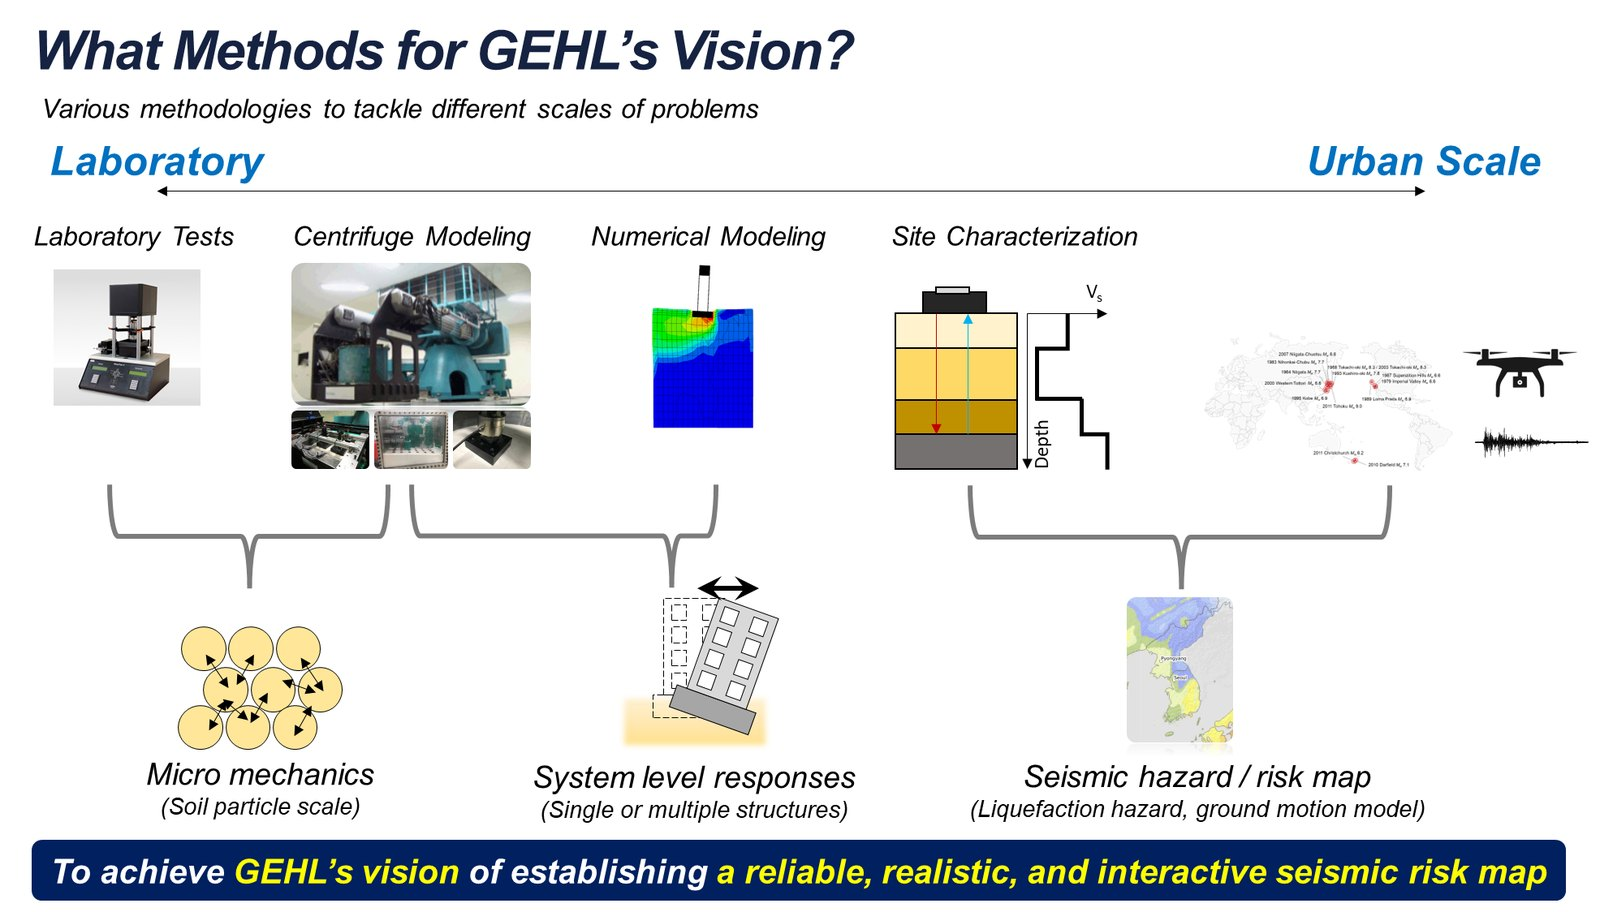
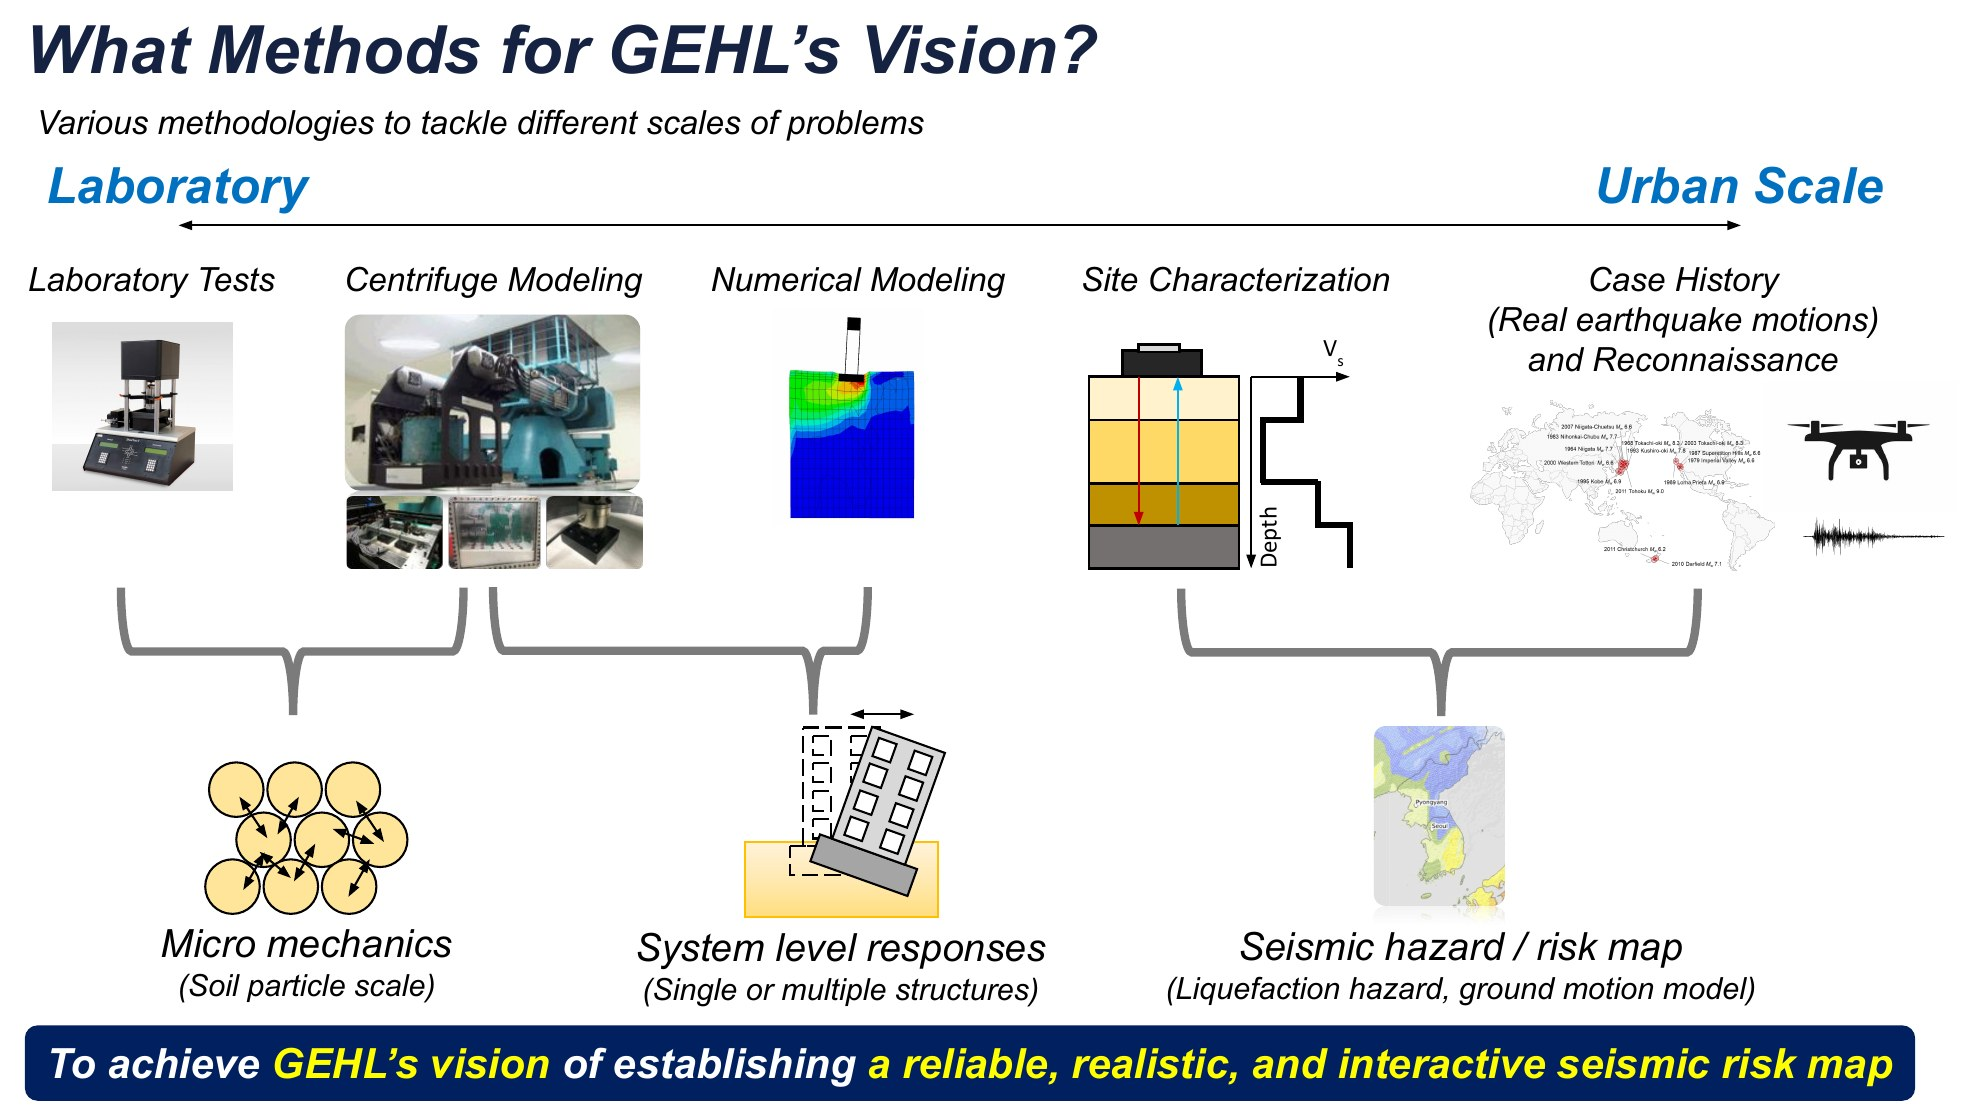
Site update 2026-10-26 14:33 (8 files, from DESKTOP-U5TBK7D)

diff --git a/index.html b/index.html
@@ -331,7 +331,16 @@ p.intro + p.intro{margin-top:12px}
 .rcard .chips span{font-size:13px;padding:5px 11px;border-radius:999px;background:var(--soft);color:var(--fg)}
 .rcard figure{margin:20px 0 0;border:1px solid var(--line);border-radius:10px;overflow:hidden;background:var(--bg)}
 .rcard figure img{display:block;width:100%;max-height:420px;object-fit:contain;background:#fff}
-.rcard figure.fig-teach img{max-height:none}   /* the teaching diagram fills its frame */
+.rcard figure.fig-teach img,.rcard figure.fig-full img{max-height:none}   /* diagrams fill their frame */
+.areas{display:grid;grid-template-columns:repeat(2,minmax(0,1fr));gap:24px}
+.rcard.area{padding:26px 28px}
+.rcard.area h3{font-size:22px;line-height:1.25;min-height:2.5em}   /* room for two title lines, so the pictures line up across a row */
+.rcard.area figure{margin-top:16px}
+.rcard.area figure .ph{display:block;position:relative;aspect-ratio:16/9;overflow:hidden;background:#fff}   /* every card's picture box is the same size */
+.rcard.area figure .ph img{position:absolute;inset:0;width:100%;height:100%;max-height:none;object-fit:contain;z-index:1}
+.rcard.area figure .ph img.bg{object-fit:cover;filter:blur(18px) brightness(.95) saturate(1.05);transform:scale(1.2);z-index:0}
+.rcard.area .prose p{font-size:15px}
+@media (max-width:860px){ .areas{grid-template-columns:1fr} }
 .rcard figcaption{font-size:12.5px;color:var(--muted);padding:8px 12px;border-top:1px solid var(--line)}
 .rcard .sel{list-style:none;margin:0;padding:0;display:grid;gap:7px}
 .rcard .sel li{font-size:14px;color:var(--muted);padding-left:14px;position:relative}
@@ -453,6 +462,12 @@ footer li{margin:4px 0}
 .arow .b button.del{color:var(--accent);border-color:var(--accent)}
 .arow .b button.mv{padding:4px 6px;min-width:26px}
 .arow .b button[disabled]{opacity:.35;cursor:default}
+.pubfilter{margin-top:-6px}
+.pubpick{max-height:230px;overflow:auto;border:1px solid var(--line-strong);border-radius:var(--radius);padding:6px 10px;display:grid;gap:4px;background:var(--surface)}
+.pubpick .pp{display:flex;gap:8px;align-items:flex-start;font-size:13px;color:var(--fg);cursor:pointer}
+.pubpick .pp input{width:auto;flex:0 0 auto;margin:3px 0 0}
+.pubpick .pp span{flex:1}
+.pubpick .pp i{color:var(--muted)}
 .thumbs{display:flex;gap:8px;flex-wrap:wrap}
 .thumbs .th{position:relative}
 .thumbs.sortable .th{cursor:grab}
@@ -574,36 +589,35 @@ footer li{margin:4px 0}
    "title": "A reliable, realistic, and interactive seismic risk map",
    "paragraphs": [
     "GEHL's vision is a seismic risk map that is reliable, realistic, and interactive: one that engineers, planners, and the public can trust and use. Every project in the lab is a step toward it, and every project follows one chain: characterize the input motion, identify the soil-foundation-structure system, and predict its output. The same framework is being extended from earthquakes to other natural hazards.",
-    "Reaching that map takes methods at every scale, from the laboratory to the city. Laboratory and centrifuge tests expose the micro-mechanics of soil at the particle scale; centrifuge and numerical modeling capture the response of single and multiple structures as one system; and site characterization, from shear-wave velocity profiles to earthquake case histories and drone-based surveys, builds the liquefaction hazard and ground-motion models behind the map. Experimental, numerical, and analytical results are checked against recorded earthquakes from databases such as DesignSafe, KiK-net, and CESMD, and probabilistic methods carry the uncertainty through to the final risk estimate."
+    "Reaching that map takes methods at every scale, from the laboratory to the city. Laboratory and centrifuge tests expose the micro-mechanics of soil at the particle scale; centrifuge and numerical modeling capture the response of single and multiple structures as one system; and site characterization, from shear-wave velocity profiles to earthquake case histories, builds the liquefaction hazard and ground-motion models behind the map. Experimental, numerical, and analytical results are checked against recorded earthquakes from databases such as DesignSafe, KiK-net, and CESMD, and probabilistic methods carry the uncertainty through to the final risk estimate."
    ],
    "framework": [
     {
      "k": "Input",
      "t": "Input motion",
-     "s": "Ground-motion characterization, seismic source and fault modeling, site response"
+     "s": "Ground-motion characterization, seismic source and fault modeling"
     },
     {
      "k": "System",
      "t": "System identification",
-     "s": "Soil, foundation, and structure as one dynamic system: centrifuge tests, element tests, numerical models"
+     "s": "Soil, foundation, and structure as one dynamic system: centrifuge tests, element tests, numerical simulations, subsurface modeling, and site characterization"
     },
     {
      "k": "Output",
      "t": "Output prediction",
-     "s": "Settlement, rotation, pore pressure, cracking, and erosion, with their uncertainty"
+     "s": "System's engineering demand parameters: settlement, rotation, pore pressure, cracking, and erosion, with their uncertainty"
     }
    ],
-   "loop": "Validated against earthquake case histories and fed back into design",
    "chips": [
     "Laboratory tests",
     "Dynamic centrifuge modeling",
     "Numerical modeling",
     "Site characterization",
     "Earthquake case histories",
-    "Probabilistic approaches and uncertainty quantification"
+    "Probabilistic approaches"
    ],
-   "figure": "img/vision-methods.jpg",
-   "figureCaption": "Methods for GEHL's vision, from laboratory to urban scale: laboratory tests and centrifuge modeling for micro-mechanics, centrifuge and numerical modeling for system-level response, and site characterization for seismic hazard and risk maps."
+   "figure": "img/uploads/bbdba09a409c586307bc63f00e94d11b.jpg",
+   "figureCaption": ""
   },
   "areas": [
    {
@@ -611,29 +625,20 @@ footer li{margin:4px 0}
     "eyebrow": "Research area 1 | Soil-structure interaction",
     "title": "Dynamic Soil-Foundation-Structure Interaction",
     "paragraphs": [
-     "Seismic design usually treats the structure and the ground separately. We measure how they move together, so that the interaction can be used in design rather than ignored. Dynamic centrifuge tests on shallow foundations, rocking foundations, and disconnected piled rafts give the data; analytical models that couple horizontal structural response with foundation rocking and swaying turn the data into predictions.",
-     "Rocking shallow foundations are a good example: rocking reduces the demand on the superstructure but leaves permanent deformation, so the question is how to use it safely. Short piles, the soil-rounding effect, cyclic versus dynamic rocking, and ground-motion intensity measures for rocking performance all come from this line of work."
+     "Seismic design usually treats the structure and the ground separately. We measure how they move together, so that the interaction can be used in design rather than ignored. Dynamic centrifuge tests on shallow foundations, rocking foundations, and disconnected piled rafts give the data; analytical models that couple horizontal structural response with foundation rocking and swaying turn the data into predictions."
     ],
     "topics": [
-     "Structural inertial interaction",
-     "Period-lengthening ratio of SDOF structures",
-     "Structure-to-foundation mass ratio",
-     "Rocking shallow foundations and short piles",
-     "Disconnected piled raft (DPR)",
-     "Modular buildings on pile foundations"
+     "Soil-Structure Interaction",
+     "Structure-Soil-Structue Interaction",
+     "Rocking Foundation"
     ],
     "pubs": [
-     "j18",
-     "j14",
      "j06",
-     "j11",
-     "j04",
-     "j01",
      "j05",
-     "j07"
+     "j01"
     ],
     "slides": "https://docs.google.com/presentation/d/1yNp8XUofbD9MQDlulWsTB0s0AGLb9GcsaP6zVIXp8k8/present",
-    "figure": "",
+    "figure": "img/uploads/1faeff9dbdd6fe27564b8383fe54a343.jpg",
     "figureCaption": ""
    },
    {
@@ -641,28 +646,19 @@ footer li{margin:4px 0}
     "eyebrow": "Research area 2 | Soil liquefaction",
     "title": "Energy-Based Soil Liquefaction Assessment",
     "paragraphs": [
-     "We use the energy dissipated in the soil, rather than cyclic stress alone, to estimate the buildup of excess pore pressure. This makes it possible to evaluate liquefaction without pore-water-pressure transducers, to read the timing of liquefaction directly from recorded ground motions through the spectral energy ratio, and to treat dissipated energy as an index of liquefiability.",
-     "The framework has been validated against case histories such as the 2003 Tokachi-Oki earthquake at the Port of Kushiro and the 2017 Pohang earthquake, and extended into a probabilistic energy-based framework that connects triggering to consequences such as settlement. Ongoing work builds a multi-scale framework for integrated cyclic loadings and a probabilistic liquefaction hazard assessment for the Pohang region."
+     "We use the energy dissipated in the soil, rather than cyclic stress alone, to estimate the buildup of excess pore pressure. This makes it possible to evaluate liquefaction without pore-water-pressure transducers, to read the timing of liquefaction directly from recorded ground motions through the spectral energy ratio, and to treat dissipated energy as an index of liquefiability.\nOngoing work builds a multi-scale framework for integrated cyclic loadings and a probabilistic liquefaction hazard assessment."
     ],
     "topics": [
      "Energy-based triggering evaluation",
-     "Spectral energy ratio and timing of liquefaction",
-     "Pore-pressure estimation without transducers",
-     "Probabilistic liquefaction hazard assessment",
-     "Depth reduction factor in liquefiable layers",
-     "Centrifuge modeling of liquefaction"
+     "Probabilistic liquefaction hazard assessment"
     ],
     "pubs": [
-     "j24",
      "j27",
      "j26",
-     "j23",
-     "j22",
-     "j20",
-     "j10"
+     "j24"
     ],
     "slides": "https://docs.google.com/presentation/d/1tBZnB6CfA8d3flq5uuUR5S-cezs4bpbV5-j-MyKKN0o/present",
-    "figure": "",
+    "figure": "img/study/liq.jpg",
     "figureCaption": ""
    },
    {
@@ -670,16 +666,12 @@ footer li{margin:4px 0}
     "eyebrow": "Research area 3 | Dams and levees",
     "title": "Cracking and Concentrated Leak Erosion due to Fault Rupture",
     "paragraphs": [
-     "Many embankment dams sit on or near active faults. A vertical offset in the foundation can crack the crest, and water flowing through that crack can erode the core. We estimate crack dimensions from the offset and judge the erosion potential from the erodibility and swelling of the core material.",
-     "Triaxial, swell, erosion, and beam-bending tests characterize the soil; centrifuge tests with controlled foundation offsets, run in collaboration with UC Davis, Auburn University, and the California Department of Water Resources, show how cracks propagate and how fast water moves through them; numerical models carry the mechanism to prototype scale."
+     "Many embankment dams sit on or near active faults. A vertical offset in the foundation can crack the crest, and water flowing through that crack can erode the core. We estimate crack dimensions from the offset and judge the erosion potential from the erodibility and swelling of the core material."
     ],
     "topics": [
-     "Crack propagation from foundation offsets",
+     "Crack propagation mechanism",
      "Concentrated leak erosion",
-     "Scaling of flow through transverse cracks",
-     "Element testing of core materials",
-     "Centrifuge modeling of embankment dams",
-     "Risk assessment with the RMC toolbox"
+     "Scaling of flow through transverse cracks"
     ],
     "pubs": [
      "c21",
@@ -687,7 +679,7 @@ footer li{margin:4px 0}
      "c18"
     ],
     "slides": "https://docs.google.com/presentation/d/1Az3RoOnAzCwC1fUZnlZ8BvYsp5IbqOI-Z43-JngRcxE/present",
-    "figure": "",
+    "figure": "img/uploads/3e018b2988f06cca8bf1bc0a1c9b4879.jpg",
     "figureCaption": ""
    },
    {
@@ -695,25 +687,20 @@ footer li{margin:4px 0}
     "eyebrow": "Research area 4 | Site response and ground motion",
     "title": "Seismic Site Response, Topographic Effects, and Ground Motion",
     "paragraphs": [
-     "The motion that reaches a foundation depends on the source, the path, and the site. We work on seismic source and fault modeling, ground-motion characterization for Korean and global conditions, and one- and two-dimensional site response analysis, including the amplification caused by topography.",
-     "Dynamic centrifuge tests of slopes and ridges quantify topographic effect parameters on site amplification, and geophysical investigation (for example MASW) ties the models to real sites. The results feed national seismic design scenarios for mountainous terrain."
+     "The motion that reaches a foundation depends on the source, the path, and the site. We work on seismic source and fault modeling, ground-motion characterization for Korean and global conditions, and one- and two-dimensional site response analysis, including the amplification caused by topography."
     ],
     "topics": [
      "2D site response analysis",
      "Topographic effects on site amplification",
      "Ground-motion modeling",
-     "Seismic fault modeling",
-     "Geophysical investigation (MASW)",
-     "Seismic slope stability"
+     "Seismic fault modeling"
     ],
     "pubs": [
      "j13",
-     "c13",
-     "j15",
-     "j16"
+     "c13"
     ],
     "slides": "https://docs.google.com/presentation/d/1Nd1fRJdZ5oY7-BMlvSkOC53q-OoW4wCiBwLiTe_bX58/present",
-    "figure": "",
+    "figure": "img/study/site.png",
     "figureCaption": ""
    }
   ],
@@ -3325,20 +3312,20 @@ footer li{margin:4px 0}
         if (i) html += '<div class="arrow" aria-hidden="true">→</div>';
         html += '<div class="step"><div class="k">' + esc(st.k) + '</div><div class="t">' + esc(st.t) + '</div><div class="s">' + esc(st.s) + '</div></div>';
       });
-      if (C.loop) html += '<div class="loop">↺ ' + esc(C.loop) + '</div>';
       html += '</div>';
     }
     var cfig = safeUrl(C.figure);
-    if (cfig) html += '<figure><img src="' + attr(cfig) + '" alt="' + attr(C.figureCaption || C.title) + '">' + (C.figureCaption ? '<figcaption>' + esc(C.figureCaption) + '</figcaption>' : '') + '</figure>';
+    if (cfig) html += '<figure class="fig-full"><img src="' + attr(cfig) + '" alt="' + attr(C.figureCaption || C.title) + '">' + (C.figureCaption ? '<figcaption>' + esc(C.figureCaption) + '</figcaption>' : '') + '</figure>';
     html += '<div class="prose">' + (C.paragraphs || []).map(function (p) { return rich(p); }).join('') + '</div>';
     if (C.chips && C.chips.length) html += '<div class="sub">Methods, from laboratory to urban scale</div><div class="chips">' + C.chips.map(function (c) { return '<span>' + esc(c) + '</span>'; }).join('') + '</div>';
     html += '</section>';
+    html += '<div class="areas">';   // research areas: two cards per row
     (R.areas || []).forEach(function (a) {
-      html += '<section class="card rcard" id="area-' + attr(a.id) + '"><div class="eyebrow">' + esc(a.eyebrow) + '</div><h3>' + esc(a.title) + '</h3>';
+      html += '<section class="card rcard area" id="area-' + attr(a.id) + '"><div class="eyebrow">' + esc(a.eyebrow) + '</div><h3>' + esc(a.title) + '</h3>';
+      var fig = safeUrl(a.figure);
+      if (fig) html += '<figure class="fig-area"><span class="ph"><img class="bg" src="' + attr(fig) + '" alt="" aria-hidden="true"><img src="' + attr(fig) + '" alt="' + attr(a.figureCaption || a.title) + '"></span>' + (a.figureCaption ? '<figcaption>' + esc(a.figureCaption) + '</figcaption>' : '') + '</figure>';   // same 16:9 box on every card
       html += '<div class="prose">' + (a.paragraphs || []).map(function (p) { return rich(p); }).join('') + '</div>';
       if (a.topics && a.topics.length) html += '<div class="sub">Research topics</div><div class="chips">' + a.topics.map(function (c) { return '<span>' + esc(c) + '</span>'; }).join('') + '</div>';
-      var fig = safeUrl(a.figure);
-      if (fig) html += '<figure><img src="' + attr(fig) + '" alt="' + attr(a.figureCaption || a.title) + '">' + (a.figureCaption ? '<figcaption>' + esc(a.figureCaption) + '</figcaption>' : '') + '</figure>';
       var sel = (a.pubs || []).map(pubById).filter(Boolean);
       if (sel.length) {
         html += '<div class="sub">Selected publications</div><ul class="sel">' + sel.map(function (p) {
@@ -3346,10 +3333,9 @@ footer li{margin:4px 0}
           return '<li>' + shortAuthors(p.authors) + ', “' + (link ? '<a href="' + attr(link) + '" target="_blank" rel="noopener">' + esc(p.title) + '</a>' : esc(p.title)) + ',” <i>' + esc(p.venue) + '</i> (' + esc(p.year) + ')</li>';
         }).join('') + '</ul>';
       }
-      if (a.slides) html += '<div class="sl"><a href="' + attr(safeUrl(a.slides)) + '" target="_blank" rel="noopener">Slides on this topic →</a></div>';
       html += '</section>';
     });
-    html += '</div>';
+    html += '</div></div>';
     var on = DATA.projects.filter(function (p) { return p.status !== 'completed'; }), done = DATA.projects.filter(function (p) { return p.status === 'completed'; });
     function ptable(list) { return '<div class="tablewrap"><table class="projects"><colgroup><col class="c-title"><col class="c-sponsor"><col class="c-period"><col class="c-role"></colgroup><thead><tr><th>Project</th><th>Sponsor</th><th>Period</th><th>Role</th></tr></thead><tbody>' + list.map(function (p) { return '<tr><td>' + esc(p.title) + '</td><td>' + esc(p.sponsor) + '</td><td class="per">' + esc(p.period) + '</td><td>' + esc(p.role) + '</td></tr>'; }).join('') + '</tbody></table></div>'; }
     html += '<section class="section" id="projects"><div class="section-head"><h2>Projects</h2></div>' + (on.length ? '<div class="eyebrow" style="margin-bottom:10px">Ongoing</div>' + ptable(on) : '') + (done.length ? '<div class="eyebrow" style="margin:28px 0 10px">Completed</div>' + ptable(done) : '') + '</section>';
